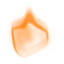
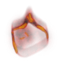
Updated fire effect and created smoke effect

Changed region(s): [[0.1562, 0.125, 0.7812, 0.875]]

diff --git a/pk/scripts/effects/particle-system.js b/pk/scripts/effects/particle-system.js
@@ -7,8 +7,9 @@ function ParticleSystem( particleCount ) {
 	this.particleContext = this.particleCanvas.getContext( '2d' );
 	*/
 	
-	this.particleImages = [Resources['Particle-Fire1'], Resources['Particle-Fire2'], Resources['Particle-Fire3']];
+	this.particleImages = [Resources['Black']];
 	this.count = 0;
+	this.scale = 1;
 	
 	this.minVelocity = new Vector( );
 	this.minVelocity.x = -viewport.width;
@@ -31,6 +32,11 @@ function ParticleSystem( particleCount ) {
 	
 	this.minLife = 20;
 	this.maxLife = 30;
+	
+	this.maxOpacity = 1;
+	this.rotationSpeed = 1; // particle rotation speed
+	this.scaleSpeed = 1;
+	this.fadeSpeed = 0.5; // btwn 0 and 1
 }
 
 ParticleSystem.prototype.constructor = ParticleSystem;
@@ -48,40 +54,7 @@ ParticleSystem.prototype.draw = function( context ) {
 	
 	for(var i = 0; i < this.particles.length; i++)
 	{
-		//context.save();
 		var p = this.particles[i];
-		
-		/*
-		this.particleContext.clearRect( 0, 0, this.particleCanvas.width, this.particleCanvas.height );
-		this.particleContext.save();
-		this.particleContext.drawImage( p.image, 0, 0, this.particleCanvas.width, this.particleCanvas.height );
-		this.particleContext.globalCompositeOperation = "source-atop";
-		this.particleContext.fillStyle = "rgba("+p.r+", "+p.g+", "+p.b+",1)";
-		this.particleContext.fillRect( 0, 0, this.particleCanvas.width, this.particleCanvas.height );
-		this.particleContext.restore();
-		context.drawImage( this.particleCanvas, p.position.x, p.position.y, p.radius * 2, p.radius * 2 );
-		*/
-		
-		/*
-		var gradient = context.createRadialGradient( p.position.x, p.position.y, 0, p.position.x, p.position.y, p.radius );
-		//var gradient = context.createRadialGradient(p.location.x, p.location.y, 0, p.location.x, p.location.y, p.radius);
-		gradient.addColorStop(0, "rgba("+p.r+", "+p.g+", "+p.b+", "+p.opacity+")");
-		gradient.addColorStop(0.5, "rgba("+p.r+", "+p.g+", "+p.b+", "+p.opacity+")");
-		gradient.addColorStop(1, "rgba("+p.r+", "+p.g+", "+p.b+", 0)");
-		
-		context.beginPath();
-		context.fillStyle = gradient;
-		context.arc( p.position.x, p.position.y, p.radius, Math.PI * 2, false );
-		//context.arc(p.location.x, p.location.y, p.radius, Math.PI*2, false);
-		context.fill();
-		*/
-		
-		////context.globalAlpha = p.opacity;
-		//context.drawImage( p.image, p.position.x, p.position.y, p.radius * 2, p.radius * 2 );
-		//context.globalCompositeOperation = "source-atop";
-		//context.fillStyle = "rgba("+p.r+", "+p.g+", "+p.b+",1)";
-		//context.fillRect( p.position.x, p.position.y, p.radius * 2, p.radius * 2 );
-		//context.restore();
 		
 		context.save();
 		context.globalAlpha = p.opacity;
@@ -98,20 +71,22 @@ ParticleSystem.prototype.update = function( deltaTime ) {
 	{
 		var p = this.particles[i];
 		p.remainingLife--;
-		p.opacity = Math.round(p.remainingLife/p.life*100)/100
-		//p.radius--;
-		//p.radius *= 0.9;
+		
+		var normalizedLife = Math.round( p.remainingLife / p.life * 100 ) / 100;
+		if( normalizedLife < this.fadeSpeed ) {
+			p.opacity = normalizedLife * this.maxOpacity;
+		} else {
+			p.opacity = (1 - normalizedLife) * this.maxOpacity;
+		}
 		
 		p.position.x += p.velocity.x * deltaTime;
 		p.position.y += p.velocity.y * deltaTime;
-		//p.location.x += p.speed.x;
-		//p.location.y += p.speed.y;
 		
-		p.rotation += Math.random( ) * 5 * deltaTime * p.rotationDirection;
-		p.scale += Math.random( ) * 5 * deltaTime * p.scaleDirection;
+		p.rotation += Math.random( ) * this.rotationSpeed * deltaTime * p.rotationDirection;
+		p.scale += Math.random( ) * this.scaleSpeed * deltaTime * p.scaleDirection;
 		
 		// Regenerate particles
-		if( p.remainingLife < 0 || p.radius < 0 )
+		if( p.remainingLife < 0 )
 		{
 			this.particles[i] = new Particle( this );
 		}
@@ -120,30 +95,23 @@ ParticleSystem.prototype.update = function( deltaTime ) {
 
 function Particle( emitter ) {
 	this.image = emitter.particleImages[ Math.floor( Math.random( ) * emitter.particleImages.length ) ];
-	//this.image = Resources['Particle-Fire1'];
 	
 	this.velocity = new Vector( );
 	this.velocity.x = emitter.minVelocity.x + Math.random( ) * ( emitter.maxVelocity.x - emitter.minVelocity.x );
 	this.velocity.y = emitter.minVelocity.y + Math.random( ) * ( emitter.maxVelocity.y - emitter.minVelocity.y );
-	//this.speed = {x: -2.5+Math.random()*5, y: -15+Math.random()*10};
 	
 	this.position = new Vector( );
 	this.position.x = emitter.position.x + Math.random( ) * emitter.size.x - emitter.size.x * 0.50;
 	this.position.y = emitter.position.y + Math.random( ) * emitter.size.y - emitter.size.y * 0.50;
-	//this.location = {x: viewport.width / 2, y: viewport.height / 2};
 	
 	this.radius = emitter.minParticleSize + Math.random( ) * ( emitter.maxParticleSize - emitter.minParticleSize );
-	//this.radius = 10 + Math.random()*20;
 	
 	this.life = emitter.minLife + Math.random( ) * ( emitter.maxLife - emitter.minLife );
-	//this.life = 20 + Math.random()*10;
 	this.remainingLife = this.life;
-	this.r = Math.round(Math.random()*255);
-	this.g = Math.round(Math.random()*55);
-	this.b = Math.round(Math.random()*0);
-	this.opacity = 1;
+	
+	this.opacity = 0;
 	this.rotation = 0;
-	this.scale = 1;
+	this.scale = emitter.scale;
 	
 	this.rotationDirection = ( Math.random( ) > 0.5 ) ? 1 : -1;
 	this.scaleDirection = ( Math.random( ) > 0.5 ) ? 1 : -1;

diff --git a/pk/scripts/paddles/blue-paddle.js b/pk/scripts/paddles/blue-paddle.js
@@ -7,6 +7,24 @@ function BluePaddle( ) {
 	
 	this.endStory = "blue end story";
 	this.story = "blue story";
+	
+	
+	
+	this.effect = new ParticleSystem( );
+	this.effect.particleImages = [Resources['Particle-Smoke1'],Resources['Particle-Smoke2']];
+	this.effect.count = 20;
+	this.effect.minVelocity.x = -this.size.x * 0.25;
+	this.effect.minVelocity.y = -this.size.y * 0.10;
+	this.effect.maxVelocity.x = this.size.x;
+	this.effect.maxVelocity.y = -this.size.y * 0.75;
+	this.effect.minParticleSize = this.size.x * 0.3;
+	this.effect.maxParticleSize = this.size.x * 0.5;
+	this.effect.minLife = 50;
+	this.effect.maxLife = 300;
+	this.effect.maxOpacity = 0.4;
+	this.effect.rotationSpeed = 1;
+	this.effect.scaleSpeed = 5;
+	this.effect.start( );
 }
 
 BluePaddle.prototype = new Paddle;
@@ -21,6 +39,12 @@ BluePaddle.prototype.dismantle = function( opponent ) {
 	}
 };
 
+BluePaddle.prototype.draw = function( context ) {
+	Paddle.prototype.draw.call( this, context );
+	this.effect.draw( context );
+};
+
+
 BluePaddle.prototype.shootProjectile = function( ) {
 	Paddle.prototype.shootProjectile.call( this );
 	this.projectile.tint = this.tint;
@@ -29,4 +53,10 @@ BluePaddle.prototype.shootProjectile = function( ) {
 BluePaddle.prototype.update = function( deltaTime ) {
 	Paddle.prototype.update.call( this, deltaTime );
 	this.velocity = this.velocity.multiply( 0.9 );
+	
+	this.effect.position = this.position;
+	this.effect.size.x = this.size.x * this.scale;
+	this.effect.size.y = this.size.y * this.scale;
+	this.effect.scale = this.scale;
+	this.effect.update( deltaTime );
 };

diff --git a/pk/scripts/paddles/yellow-paddle.js b/pk/scripts/paddles/yellow-paddle.js
@@ -9,7 +9,8 @@ function YellowPaddle( ) {
 	this.story = "yellow story";
 	
 	this.effect = new ParticleSystem( );
-	this.effect.count = 150;
+	this.effect.particleImages = [Resources['Particle-Fire1'],Resources['Particle-Fire2'],Resources['Particle-Fire3']];
+	this.effect.count = 250;
 	this.effect.minVelocity.x = -this.size.x;
 	this.effect.minVelocity.y = 0;
 	this.effect.maxVelocity.x = this.size.x;
@@ -18,6 +19,10 @@ function YellowPaddle( ) {
 	this.effect.maxParticleSize = this.size.x * 0.3;
 	this.effect.minLife = 50;
 	this.effect.maxLife = 100;
+	this.effect.rotationSpeed = 5;
+	this.effect.scaleSpeed = 5;
+	this.effect.maxOpacity = 0.9;
+	this.effect.fadeSpeed = 0.666;
 	this.effect.start( );
 }
 
@@ -47,6 +52,8 @@ YellowPaddle.prototype.update = function( deltaTime ) {
 	Paddle.prototype.update.call( this, deltaTime );
 	this.velocity = this.velocity.multiply( 0.9 );
 	this.effect.position = this.position;
-	this.effect.size = this.size;
+	this.effect.size.x = this.size.x * this.scale;
+	this.effect.size.y = this.size.y * this.scale;
+	this.effect.scale = this.scale;
 	this.effect.update( deltaTime );
 };

diff --git a/pk/scripts/assets.js b/pk/scripts/assets.js
@@ -30,6 +30,8 @@
 		"Particle-Fire1"       : "images/effects/particle-fire-1.png",
 		"Particle-Fire2"       : "images/effects/particle-fire-2.png",
 		"Particle-Fire3"       : "images/effects/particle-fire-3.png",
+		"Particle-Smoke1"      : "images/effects/particle-smoke-1.png",
+		"Particle-Smoke2"      : "images/effects/particle-smoke-2.png",
 		
 		"Health"               : "images/health.png",
 		"HUD"                  : "images/hud.png",

diff --git a/pk/scripts/scenes/test-scene.js b/pk/scripts/scenes/test-scene.js
@@ -14,6 +14,7 @@ function TestScene( ) {
 	testLayer.addComponent( 'Text', this.text );
 	
 	this.tester = new YellowPaddle( );
+	this.tester.scale = 5;
 	testLayer.addComponent( 'Tester', this.tester );
 }
 
